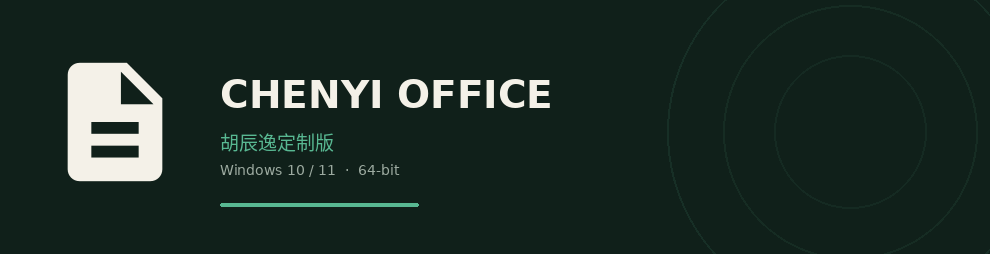
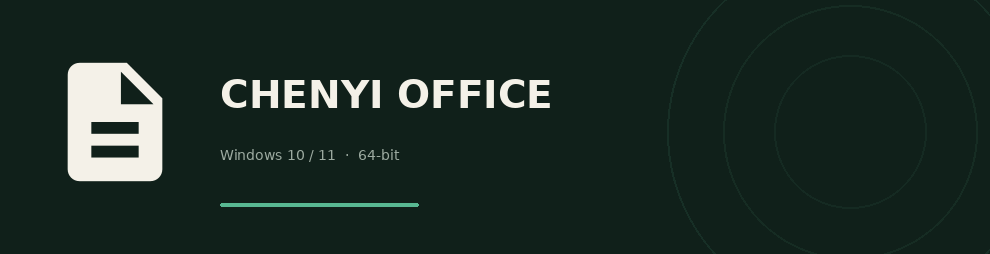
chore: 重新生成开屏与关于素材，去掉“胡辰逸定制版”副标题

Changed region(s): [[0.2121, 0.5236, 0.4242, 0.689]]

diff --git a/scripts/make-engine-assets.py b/scripts/make-engine-assets.py
@@ -71,9 +71,8 @@ def make_splash(width, height):
     cjk = ImageFont.truetype(FONT_CJK, int(height * 0.075))
 
     draw.text((text_x, int(height * 0.28)), "CHENYI OFFICE", font=bold, fill=CREAM)
-    draw.text((text_x, int(height * 0.50)), "", font=cjk, fill=ACCENT)
     draw.text(
-        (text_x, int(height * 0.64)),
+        (text_x, int(height * 0.58)),
         "Windows 10 / 11  ·  64-bit",
         font=regular,
         fill=MUTED,
